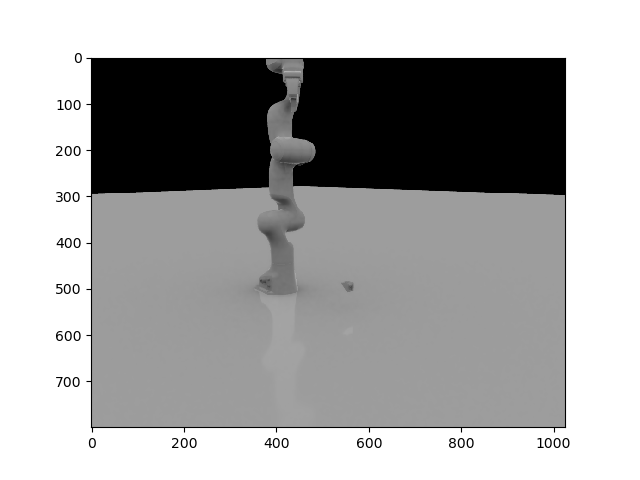
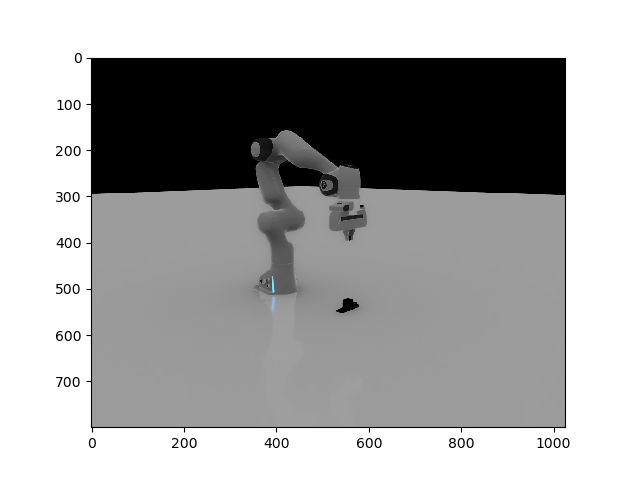
create GraspSimulator class

Changed region(s): [[0.375, 0.125, 0.5938, 0.6562], [0.5312, 0.5938, 0.5625, 0.6562]]

diff --git a/load_single_object.py b/load_single_object.py
@@ -38,6 +38,7 @@ from omni.isaac.synthetic_utils import OmniKitHelper
 from omni.isaac.synthetic_utils import SyntheticDataHelper
 from utils.visualize import screenshot
 
+
 class GraspSimulator(GraspObject):
     """ Defines an obstacle avoidance scenario
 
@@ -52,7 +53,10 @@ class GraspSimulator(GraspObject):
         self.add_and_register_object()
         if drop:
             # start simulation
-            kit.play()
+            if self._kit.editor.is_playing(): previously_playing = True
+            else:                             previously_playing = False
+
+            if not previously_playing: self.play()
             step = 0
             target_object = self.objects[-1]
             while step < max_steps or self._kit.is_loading():
@@ -61,8 +65,22 @@ class GraspSimulator(GraspObject):
                 object_speed = target_object.get_speed()
                 if object_speed == 0: break
                 step +=1
+
             # Stop physics simulation
-            kit.stop()
+            if not previously_playing: self.stop()
+
+    def add_and_register_object(self):
+        prim = self.create_new_objects()
+        self._kit.update()
+        if not hasattr(self, 'objects'):
+            self.objects = []
+        self.objects.append(RigidBody(prim, self._dc))
+
+    def play(self):
+        self._kit.play()
+    
+    def stop(self):
+        self._kit.stop()
 
 kit = OmniKitHelper(
     {"renderer": "RayTracedLighting", "experience": f'{os.environ["EXP_PATH"]}/isaac-sim-python.json'}
@@ -78,16 +96,64 @@ _physxIFace = _physx.acquire_physx_interface()
 _scenario = GraspSimulator(kit, _dc, _mp)
 
 _scenario.create_franka()
-
 _editor.set_camera_position("/OmniverseKit_Persp", 142, -127, 56, True)
 _editor.set_camera_target("/OmniverseKit_Persp", -180, 234, -27, True)
 
-
+# start simulation
 kit.play()
-
+   
 _scenario.register_assets()
-_scenario.load_single_object(drop=False)
+_scenario.load_single_object(drop=True)
+
+while kit.is_loading():
+    kit.update(1 / 60.0)
+
+screenshot(sd_helper)
+
+# Stop physics simulation
 kit.stop()
+
+# _scenario.add_bin()
+# _scenario.add_bin()
+# _scenario.add_bin()
+
+
+# _scenario.play()
+# _scenario.register_assets()
+
+# _scenario.objects = []
+# objects_path = '/scene/objects'
+# objects_prim = _scenario._stage.GetPrimAtPath(objects_path)
+# if objects_prim.IsValid():
+#     for object_prim in objects_prim.GetChildren():
+#         _scenario.objects.append(RigidBody(object_prim, _scenario._dc))
+# print(_scenario.objects)
+# _scenario.stop()
+
+# _scenario.add_bin()
+
+
+# _scenario.load_single_object(drop=True)
+# _scenario.load_single_object(drop=True)
+# _scenario.load_single_object(drop=True)
+# _scenario.load_single_object(drop=True)
+
+# _scenario.play()
+# _scenario.register_assets()
+# _scenario.objects = []
+# objects_path = '/scene/objects'
+# objects_prim = _scenario._stage.GetPrimAtPath(objects_path)
+# if objects_prim.IsValid():
+#     for object_prim in objects_prim.GetChildren():
+#         _scenario.objects.append(RigidBody(object_prim, _scenario._dc))
+# print(_scenario.objects)
+
+# while kit.is_loading():
+#     _scenario.step(0)
+#     kit.update(1 / 60.0)
+# screenshot(sd_helper)
+
+# _scenario.stop()
 
 # # start simulation
 # kit.play()
@@ -101,7 +167,7 @@ kit.stop()
 
 # step = 0
 # target_object = _scenario.objects[0]
-# while step < 1000 or kit.is_loading():
+# while step < 60 or kit.is_loading():
 #     _scenario.step(step)
 #     kit.update(1 / 60.0)
 #     object_velocity = target_object.get_speed()
@@ -110,8 +176,9 @@ kit.stop()
 #     object_y_positions.append(object_position[1])
 #     object_z_positions.append(object_position[2])
 #     object_velocities.append(object_velocity)
-#     if object_velocity == 0: break
+#     # if object_velocity == 0: break
 #     step +=1
+
 # screenshot(sd_helper, suffix=1)
 
 # fig, axes = plt.subplots(2, 2)

diff --git a/grasping_scenarios/grasp_object.py b/grasping_scenarios/grasp_object.py
@@ -38,7 +38,7 @@ def create_prim_from_usd(stage, prim_env_path, prim_usd_path, location):
     envPrim = stage.DefinePrim(prim_env_path, "Xform")  # create an empty Xform at the given path
     envPrim.GetReferences().AddReference(prim_usd_path)  # attach the USD to the given path
     set_translate(envPrim, location)  # set pose
-    return envPrim
+    return stage.GetPrimAtPath(envPrim.GetPath().pathString)
 
 class SM_events(Enum):
     START = 0
@@ -448,7 +448,6 @@ class RigidBody:
         self.name = prim.GetPrimPath().name
         self.handle = self.get_rigid_body_handle()
 
-
     def __repr__(self):
         return self.name
 
@@ -459,8 +458,6 @@ class RigidBody:
             body_handle = self._dc.get_rigid_body(child_path)
             if body_handle != 0:
                 bin_path = child_path
-
-        import pdb; pdb.set_trace()
 
         object_handle = self._dc.get_rigid_body(bin_path)
         if object_handle != 0: return object_handle
@@ -562,12 +559,6 @@ class GraspObject(Scenario):
     def add_bin(self, *args):
         self.create_new_objects(args)
 
-    def add_and_register_object(self, *args):    
-        prim = self.create_new_objects(args)
-        if not hasattr(self, 'objects'):
-            self.objects = []
-        self.objects.append(RigidBody(prim, self._dc))
-
     def create_new_objects(self, *args):
         prim_usd_path = self.objects_usd[random.randint(0, len(self.objects_usd) - 1)]
         prim_env_path = "/scene/objects/object_{}".format(self.current_obj)
@@ -604,7 +595,7 @@ class GraspObject(Scenario):
             for object_prim in objects_prim.GetChildren():
                 self.objects.append(RigidBody(object_prim, self._dc))
 
-        # register stage machine 
+        # register stage machine
         self.pick_and_place = PickAndPlaceStateMachine(
             self._stage,
             self.franka_solid,

diff --git a/one_shot.py b/one_shot.py
@@ -113,7 +113,6 @@ carb.log_warn(str(_scenario.pick_and_place.evaluation))
 # Stop physics simulation
 kit.stop()
 
-
 # method create_franka
 # method load_single_object and let it fall
 # method execute_grasp(position, orientation) return success / failure
